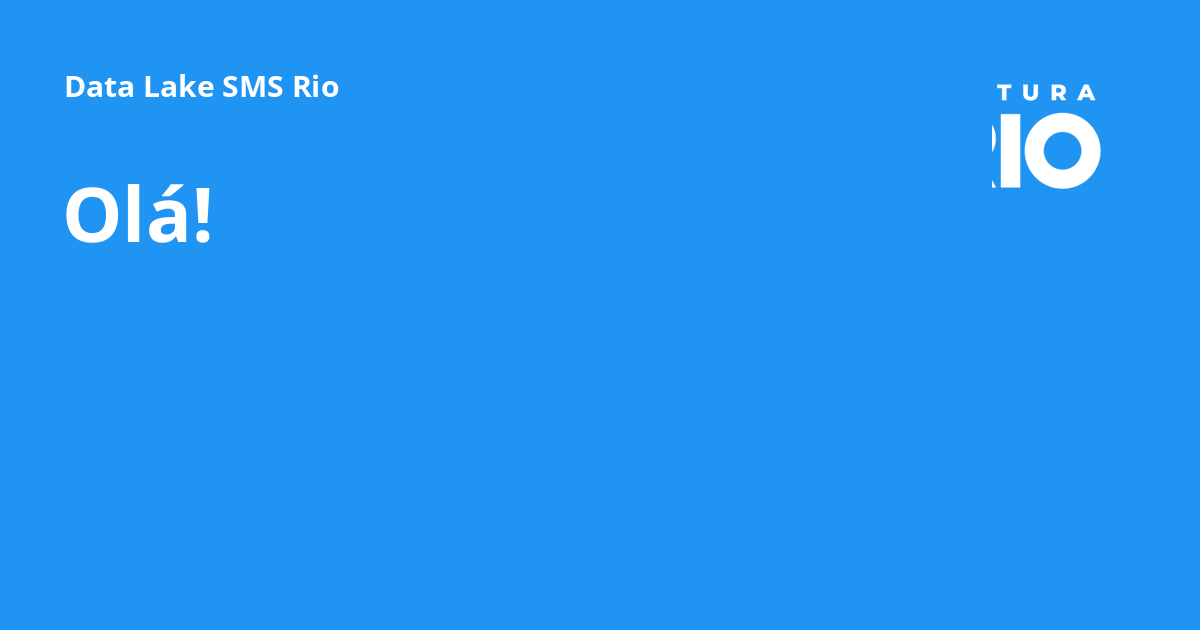
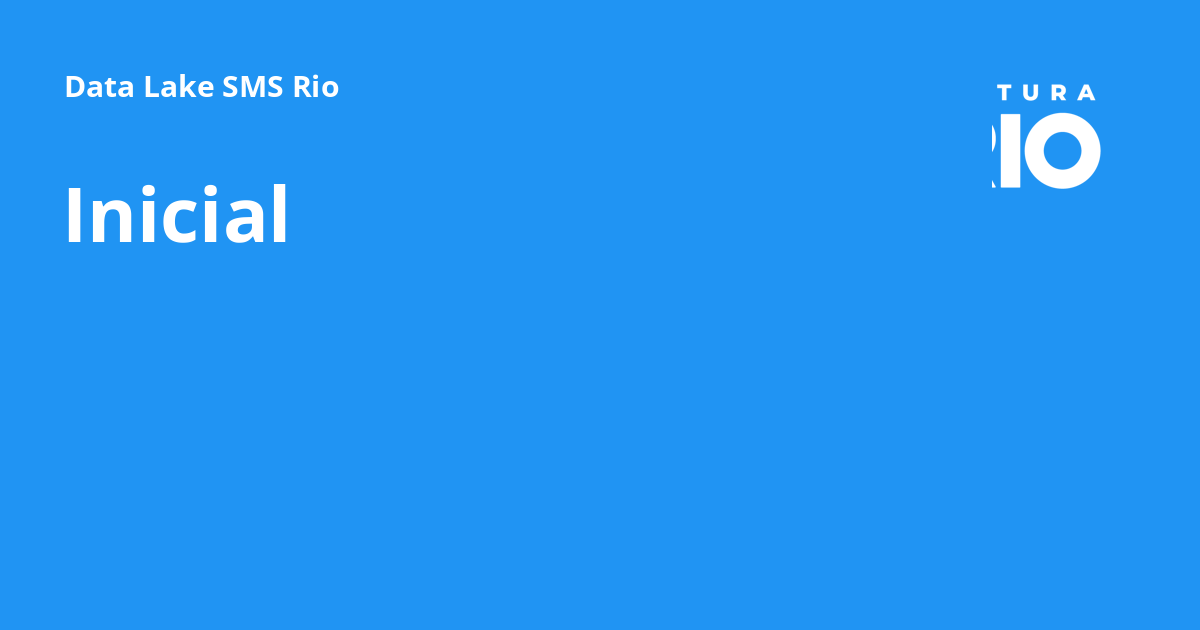
Deployed b5ca934 with MkDocs version: 1.6.1

Changed region(s): [[0.0617, 0.2714, 0.2467, 0.3921]]

diff --git a/index.html b/index.html
@@ -23,7 +23,7 @@
     
     
       
-        <title>Olá! - Data Lake SMS Rio</title>
+        <title>Inicial - Data Lake SMS Rio</title>
       
     
     
@@ -57,14 +57,14 @@
     
   
 <meta property="og:type" content="website" />
-<meta property="og:title" content="Olá! - Data Lake SMS Rio" />
+<meta property="og:title" content="Inicial - Data Lake SMS Rio" />
 <meta property="og:image" content="https://herianc.github.io/sms-datalake-docs/assets/images/social/index.png" />
 <meta property="og:image:type" content="image/png" />
 <meta property="og:image:width" content="1200" />
 <meta property="og:image:height" content="630" />
 <meta property="og:url" content="https://herianc.github.io/sms-datalake-docs/" />
 <meta property="twitter:card" content="summary_large_image" />
-<meta property="twitter:title" content="Olá! - Data Lake SMS Rio" />
+<meta property="twitter:title" content="Inicial - Data Lake SMS Rio" />
 <meta property="twitter:image" content="https://herianc.github.io/sms-datalake-docs/assets/images/social/index.png" />
 </head>
   
@@ -122,7 +122,7 @@
         <div class="md-header__topic" data-md-component="header-topic">
           <span class="md-ellipsis">
             
-              Olá!
+              Inicial
             
           </span>
         </div>
@@ -867,7 +867,7 @@
 
 
 
-  <h1>Olá!</h1>
+  <h1>Inicial</h1>
 
 <h2 id="bem-vindo-a-documentacao-do-data-lake-da-sms-rio"><strong>Bem-vindo à documentação do Data Lake da SMS Rio</strong></h2>
 <div class="admonition warning">

diff --git a/governanca/index.html b/governanca/index.html
@@ -1066,7 +1066,7 @@
       <nav class="md-footer__inner md-grid" aria-label="Rodapé" >
         
           
-          <a href=".." class="md-footer__link md-footer__link--prev" aria-label="Anterior: Olá!">
+          <a href=".." class="md-footer__link md-footer__link--prev" aria-label="Anterior: Inicial">
             <div class="md-footer__button md-icon">
               
               <svg xmlns="http://www.w3.org/2000/svg" viewBox="0 0 24 24"><path d="M20 11v2H8l5.5 5.5-1.42 1.42L4.16 12l7.92-7.92L13.5 5.5 8 11z"/></svg>
@@ -1076,7 +1076,7 @@
                 Anterior
               </span>
               <div class="md-ellipsis">
-                Olá!
+                Inicial
               </div>
             </div>
           </a>
